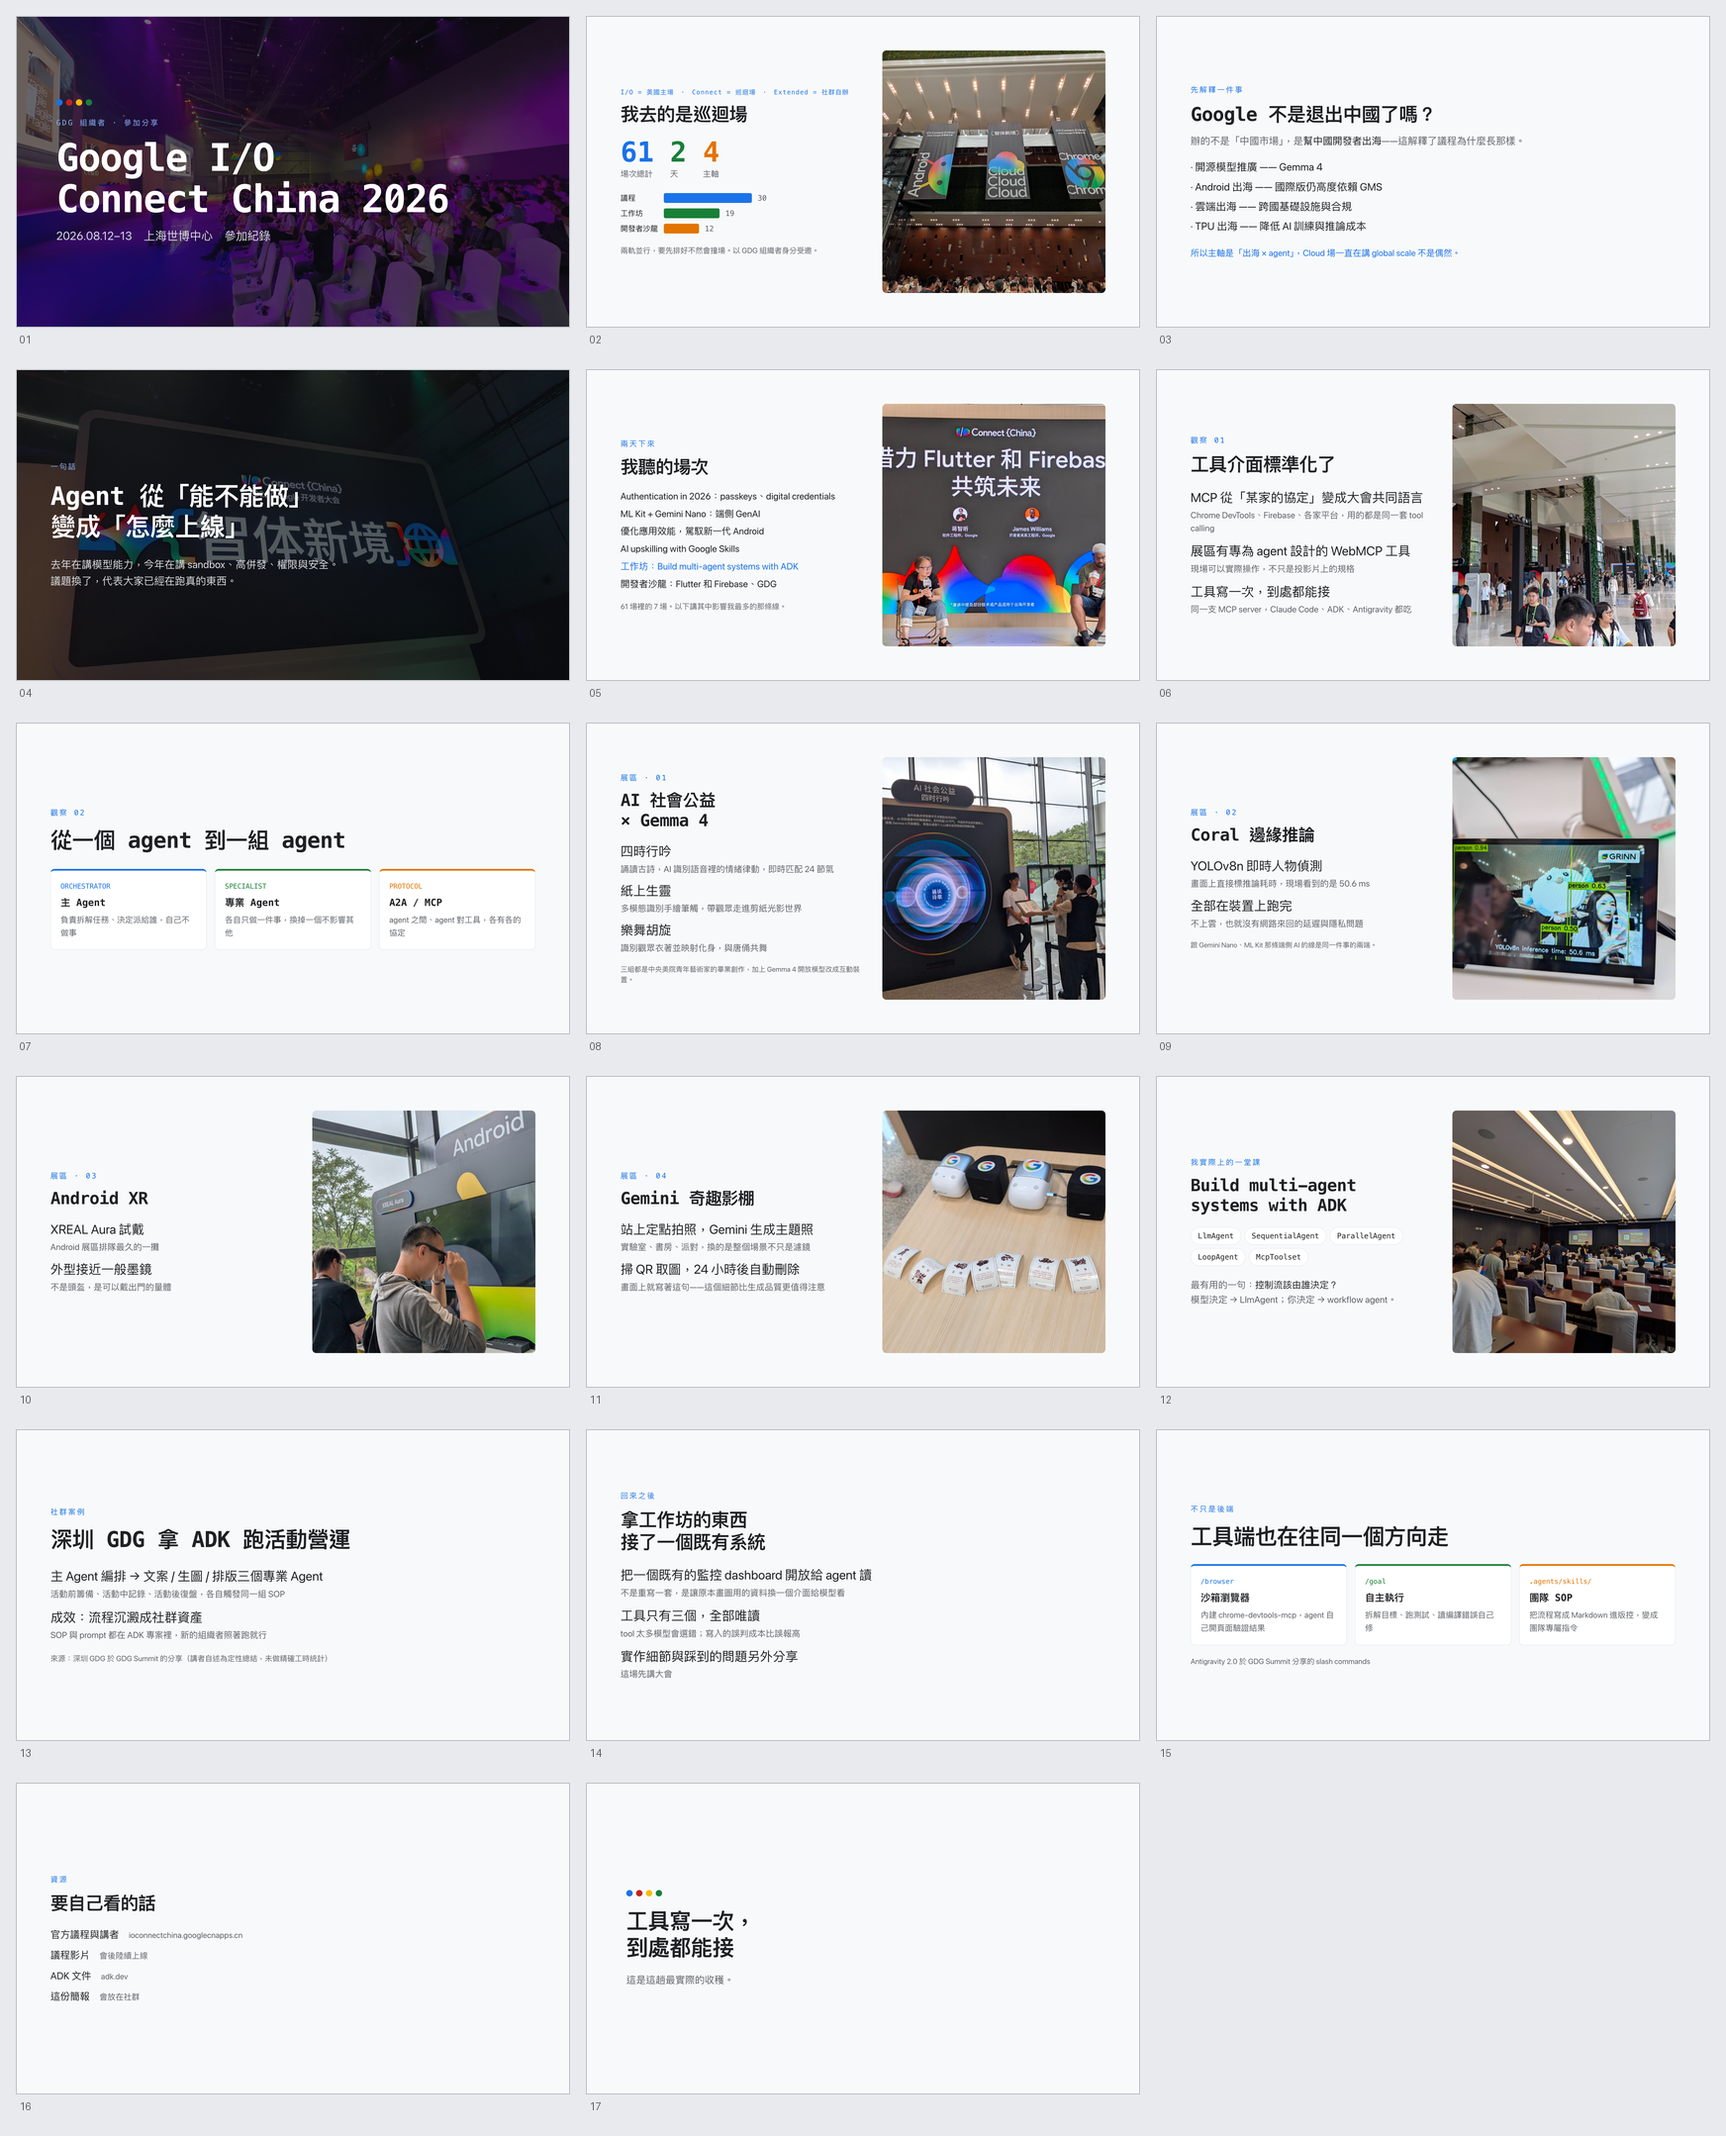
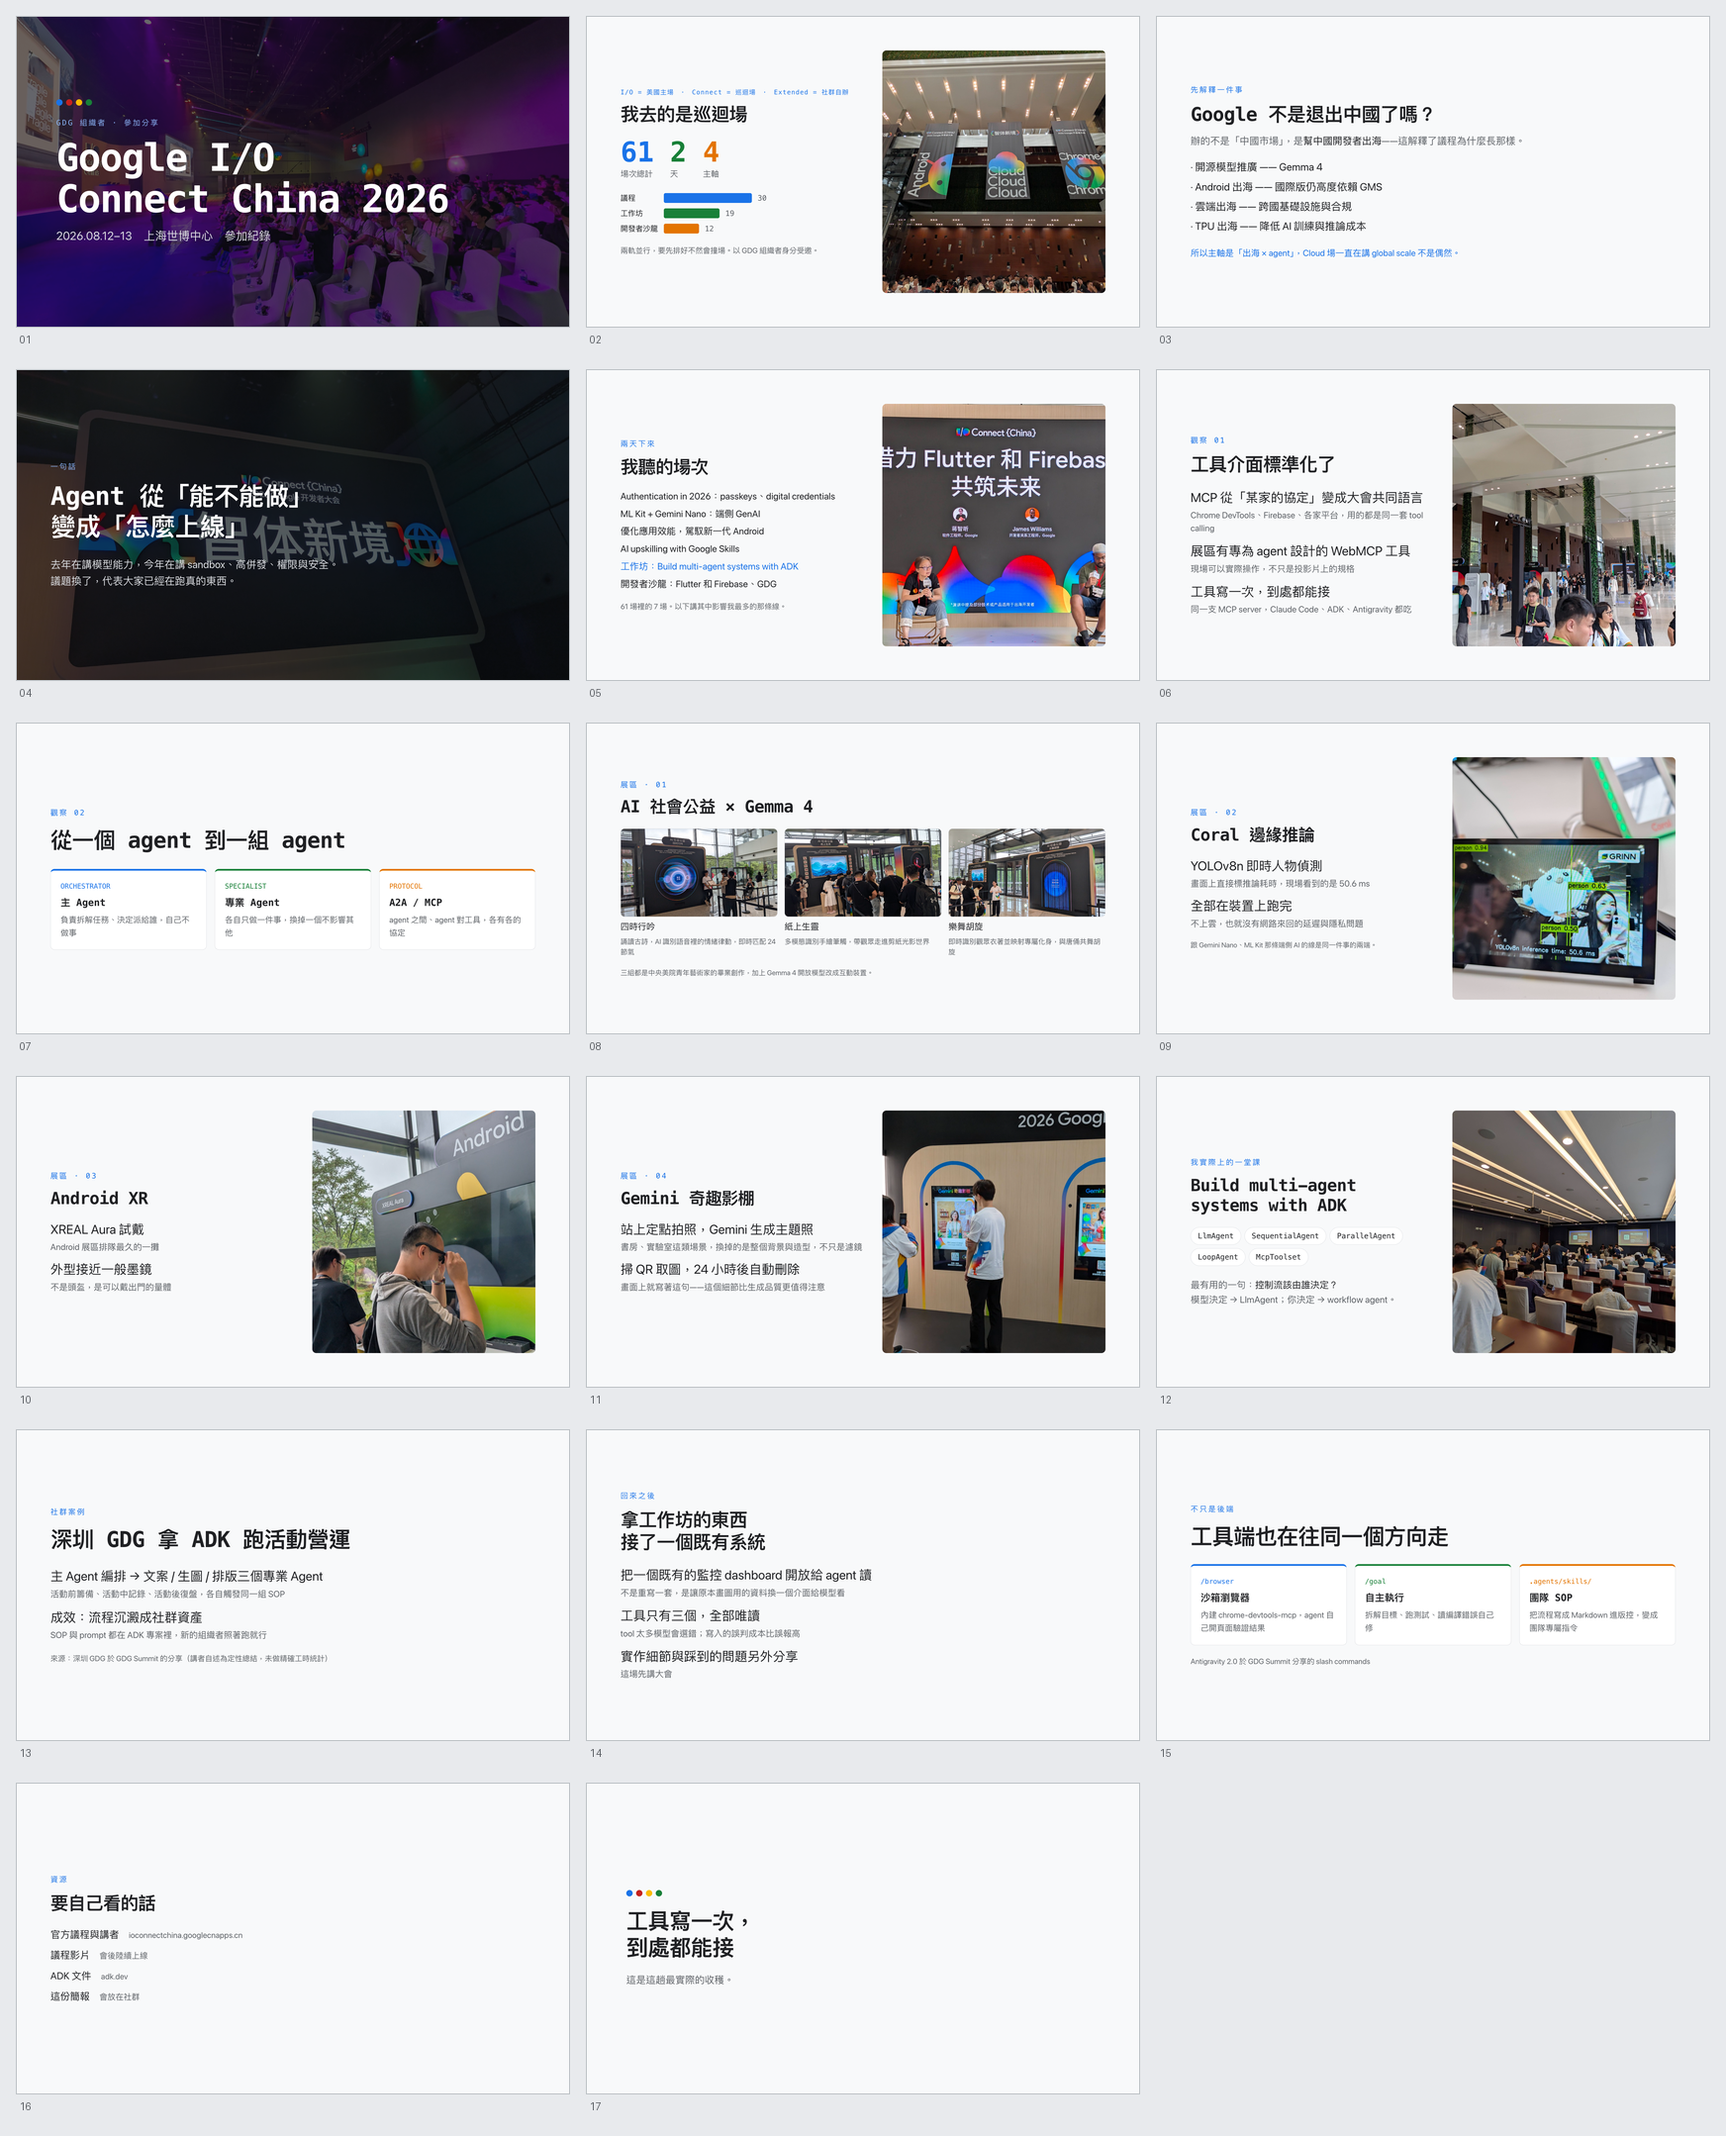
fix(slides): correct booth photos and show all three gemma 4 artworks

Changed region(s): [[0.3406, 0.3415, 0.6502, 0.4657], [0.4954, 0.5278, 0.6502, 0.652]]

diff --git a/slides/io-connect-2026/index.tsx b/slides/io-connect-2026/index.tsx
@@ -7,7 +7,9 @@ import theme from './assets/theme.jpg';
 import workshop from './assets/workshop.jpg';
 import flutterSalon from './assets/flutter.jpg';
 import webmcp from './assets/webmcp.jpg';
-import boothArt from './assets/booth-art.jpg';
+import artPoem from './assets/art-poem.jpg';
+import artPaper from './assets/art-paper.jpg';
+import artDance from './assets/art-dance.jpg';
 import boothCoral from './assets/booth-coral.jpg';
 import boothXr from './assets/booth-xr.jpg';
 import boothStudio from './assets/booth-studio.jpg';
@@ -143,6 +145,17 @@ const TrackBar = ({ name, n, total, color }: { name: string; n: number; total: n
     <div style={{ flex: '0 0 130px', fontFamily: 'var(--osd-font-display)', fontSize: 26 }}>{name}</div>
     <div style={{ width: `${(n / total) * 620}px`, height: 34, background: color, borderRadius: 6 }} />
     <div style={{ fontFamily: 'var(--osd-font-display)', fontSize: 26, color: muted }}>{n}</div>
+  </div>
+);
+
+/** 作品卡:圖 + 作品名 + 一句機制說明 */
+const ArtCard = ({ src, title, note }: { src: string; title: string; note: string }) => (
+  <div style={{ flex: 1, display: 'flex', flexDirection: 'column', gap: 14 }}>
+    <div style={{ width: '100%', height: 306, borderRadius: 'var(--osd-radius)', overflow: 'hidden', border: `1px solid ${line}` }}>
+      <img src={src} alt="" style={{ width: '100%', height: '100%', objectFit: 'cover' }} />
+    </div>
+    <div style={{ fontFamily: 'var(--osd-font-display)', fontSize: 30, lineHeight: 1.3 }}>{title}</div>
+    <div style={{ fontSize: 24, color: muted, lineHeight: 1.5 }}>{note}</div>
   </div>
 );
 
@@ -297,20 +310,29 @@ const Shift2: Page = () => (
 );
 
 const BoothArt: Page = () => (
-  <div style={{ ...page, flexDirection: 'row', gap: 56, alignItems: 'center' }}>
-    <div style={{ flex: 1 }}>
-      <div style={eyebrow}>展區 · 01</div>
-      <h2 style={{ ...h2, fontSize: 58, marginTop: 24 }}>AI 社會公益<br />× Gemma 4</h2>
-      <div style={{ display: 'flex', flexDirection: 'column', gap: 22, marginTop: 40 }}>
-        <Bullet text="四時行吟" sub="誦讀古詩，AI 識別語音裡的情緒律動，即時匹配 24 節氣" />
-        <Bullet text="紙上生靈" sub="多模態識別手繪筆觸，帶觀眾走進剪紙光影世界" />
-        <Bullet text="樂舞胡旋" sub="識別觀眾衣著並映射化身，與唐俑共舞" />
-      </div>
-      <p style={{ fontSize: 24, color: muted, marginTop: 34, marginBottom: 0 }}>
-        三組都是中央美院青年藝術家的畢業創作，加上 Gemma 4 開放模型改成互動裝置。
-      </p>
+  <div style={{ ...page, justifyContent: 'center' }}>
+    <div style={eyebrow}>展區 · 01</div>
+    <h2 style={{ ...h2, fontSize: 58, marginTop: 22 }}>AI 社會公益 × Gemma 4</h2>
+    <div style={{ display: 'flex', gap: 24, marginTop: 40 }}>
+      <ArtCard
+        src={artPoem}
+        title="四時行吟"
+        note="誦讀古詩，AI 識別語音裡的情緒律動，即時匹配 24 節氣"
+      />
+      <ArtCard
+        src={artPaper}
+        title="紙上生靈"
+        note="多模態識別手繪筆觸，帶觀眾走進剪紙光影世界"
+      />
+      <ArtCard
+        src={artDance}
+        title="樂舞胡旋"
+        note="即時識別觀眾衣著並映射專屬化身，與唐俑共舞胡旋"
+      />
     </div>
-    <PhotoSide src={boothArt} />
+    <p style={{ fontSize: 24, color: muted, marginTop: 36, marginBottom: 0 }}>
+      三組都是中央美院青年藝術家的畢業創作，加上 Gemma 4 開放模型改成互動裝置。
+    </p>
   </div>
 );
 
@@ -351,7 +373,7 @@ const BoothStudio: Page = () => (
       <div style={eyebrow}>展區 · 04</div>
       <h2 style={{ ...h2, fontSize: 58, marginTop: 24 }}>Gemini 奇趣影棚</h2>
       <div style={{ display: 'flex', flexDirection: 'column', gap: 24, marginTop: 40 }}>
-        <Bullet text="站上定點拍照，Gemini 生成主題照" sub="實驗室、書房、派對，換的是整個場景不只是濾鏡" />
+        <Bullet text="站上定點拍照，Gemini 生成主題照" sub="書房、實驗室這類場景，換掉的是整個背景與造型，不只是濾鏡" />
         <Bullet text="掃 QR 取圖，24 小時後自動刪除" sub="畫面上就寫著這句——這個細節比生成品質更值得注意" />
       </div>
     </div>
